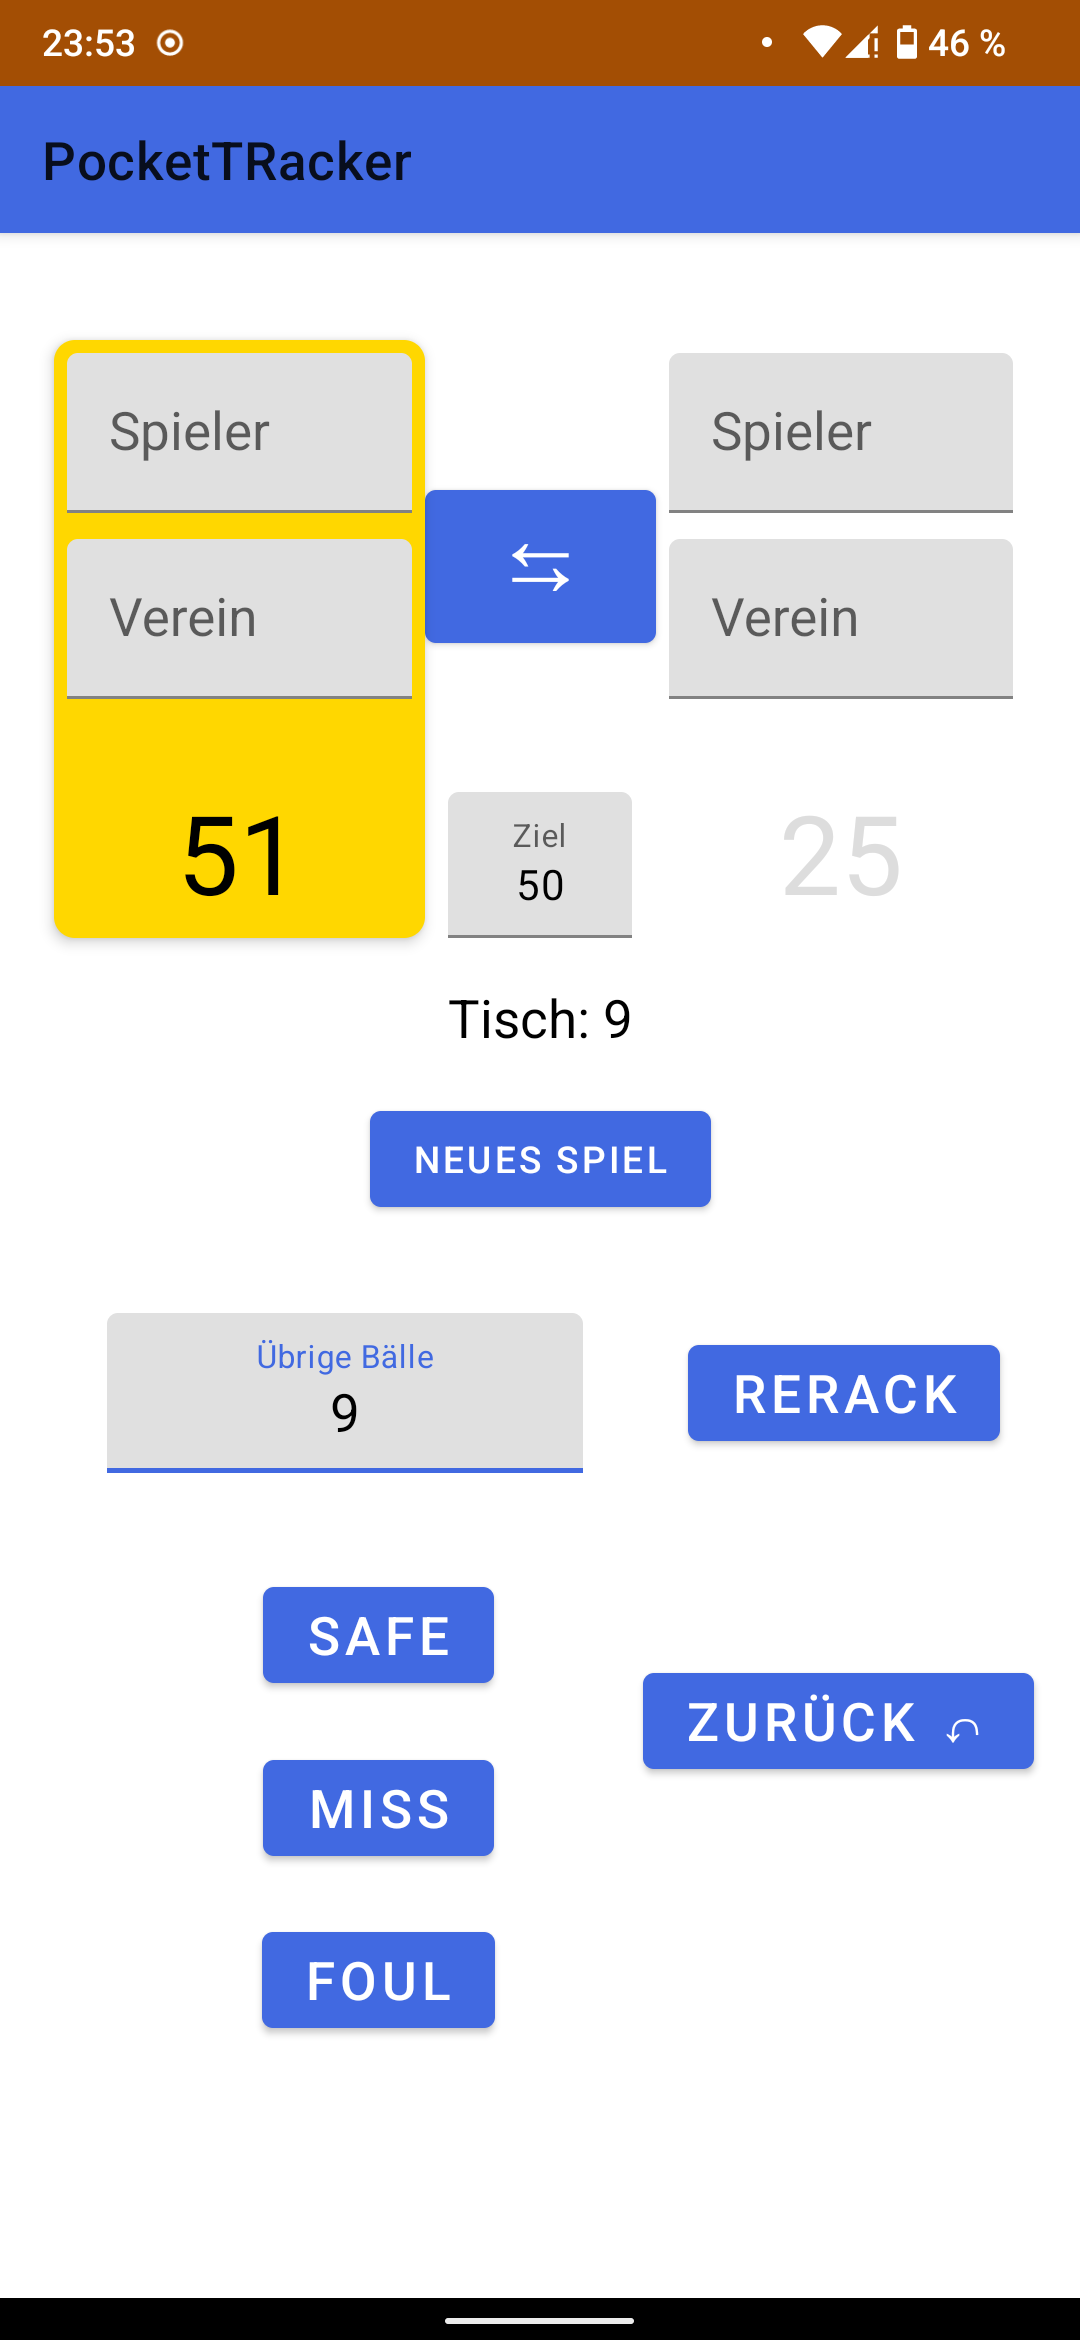
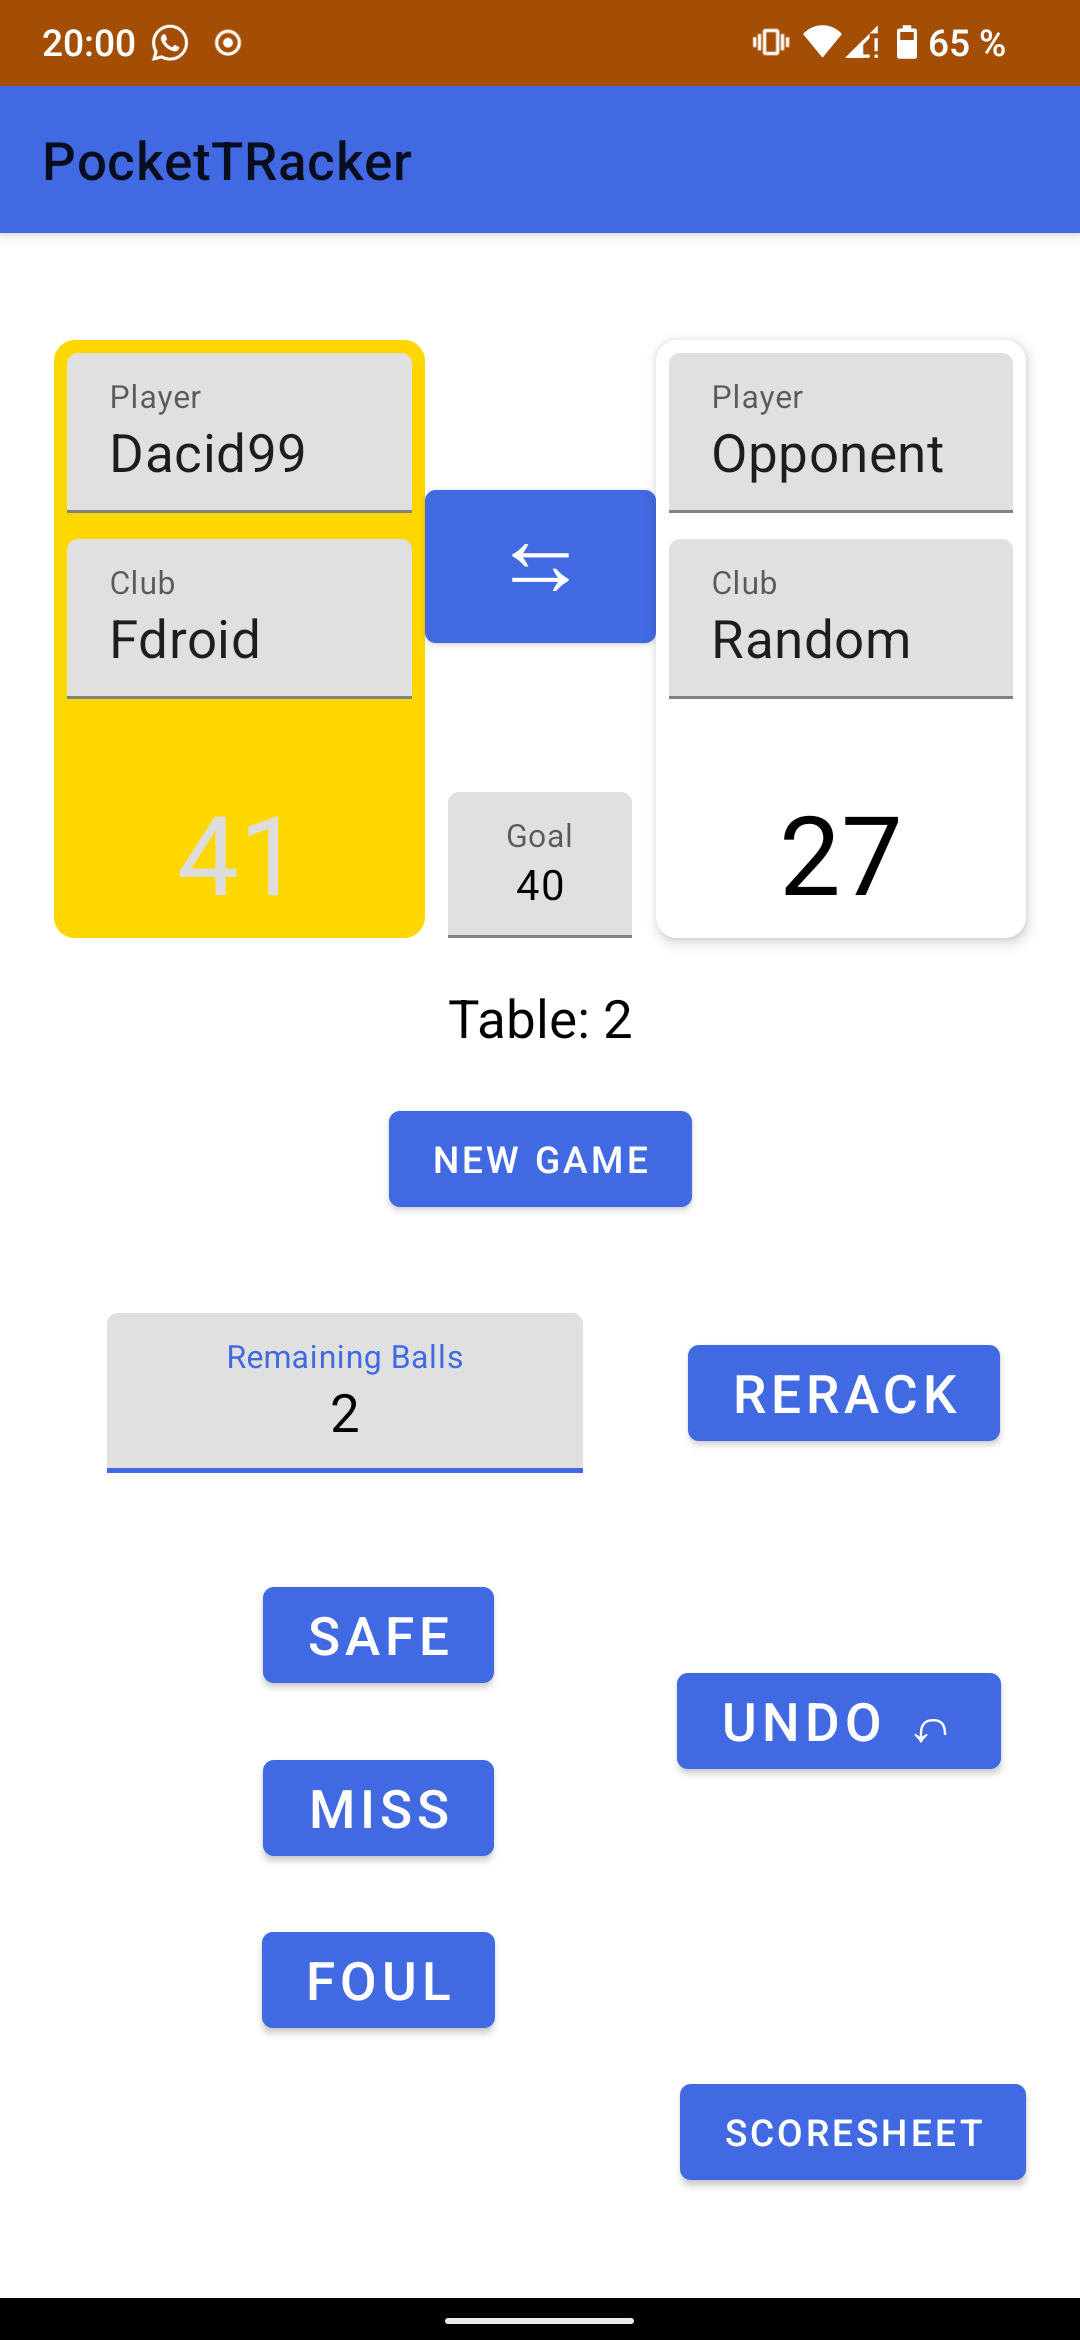
added english screenshots with scoresheet

diff --git a/ToDo.md b/ToDo.md
@@ -12,5 +12,3 @@
 - playerHeaders personalized
 - shadow for header row
 - statistics panel
-- screenshots with english locale
-- move swap button upwards
